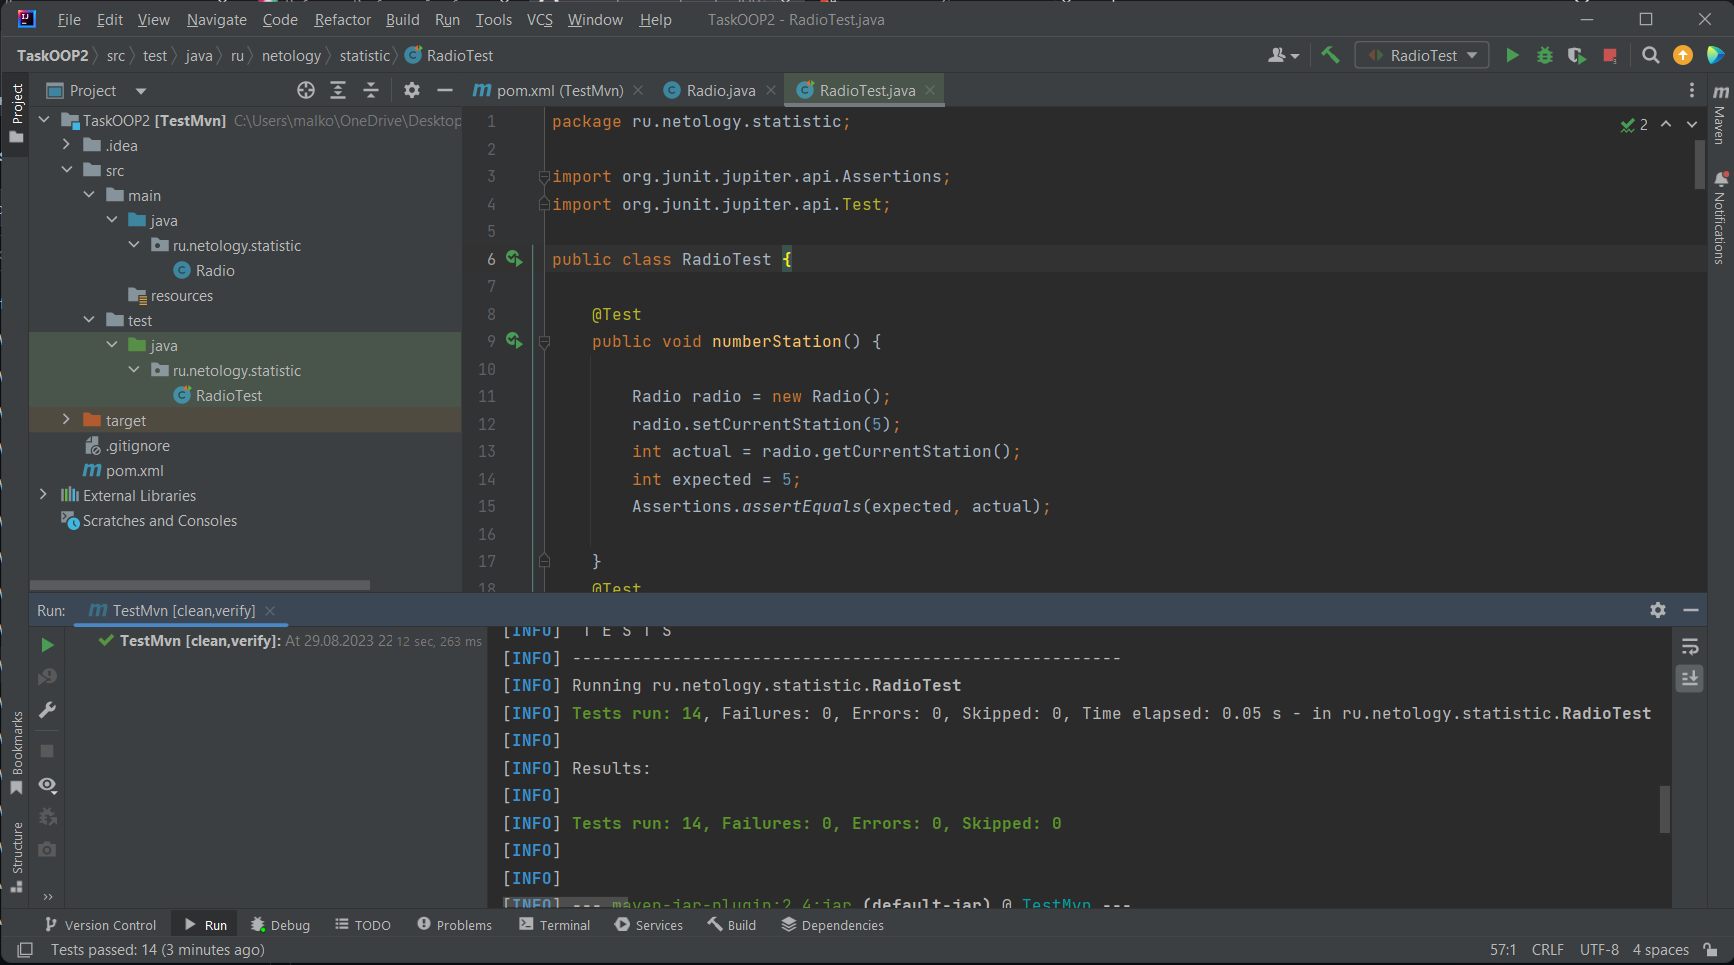
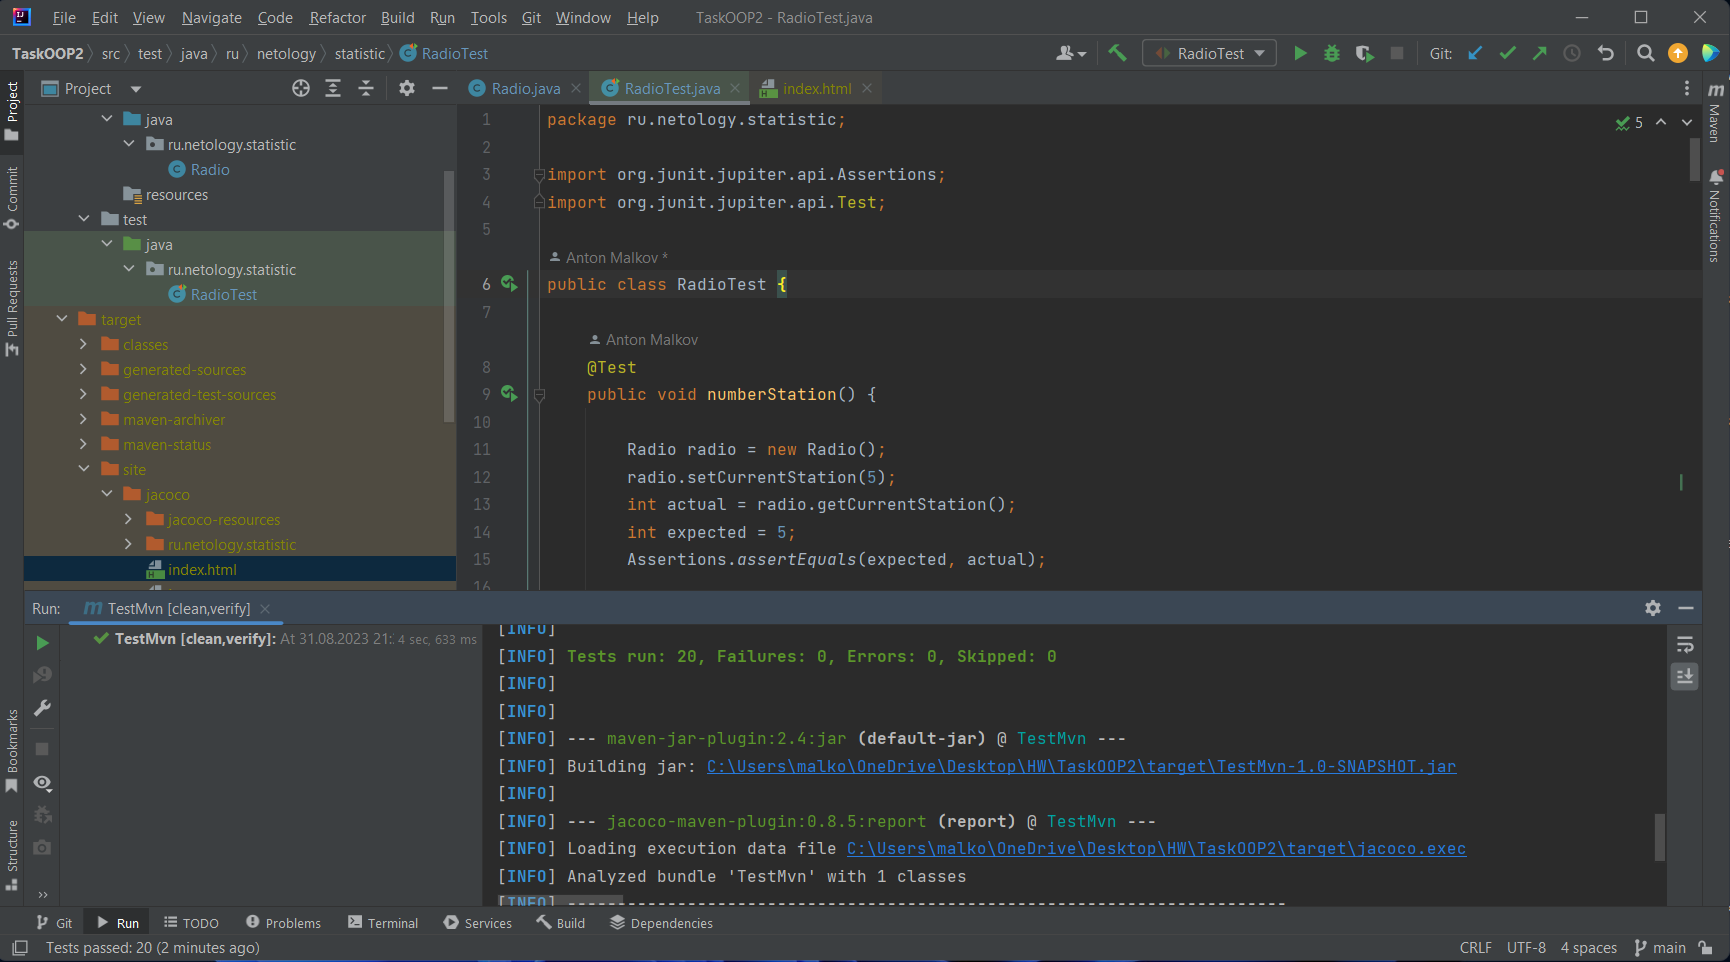
changing the code

diff --git a/src/test/java/ru/netology/statistic/RadioTest.java b/src/test/java/ru/netology/statistic/RadioTest.java
@@ -158,6 +158,15 @@ public class RadioTest {
         Assertions.assertEquals(expected, actual);
     }
     @Test
+    public void redusehundredVolume() {
+        Radio radio = new Radio();
+        radio.setCurrentVolume(100);
+        radio.reduceVolume();
+        int actual = radio.getCurrentVolume();
+        int expected = 99;
+        Assertions.assertEquals(expected, actual);
+    }
+    @Test
     public void reduseMaxInOneVolume() {
         Radio radio = new Radio();
         radio.setCurrentVolume(100);

diff --git a/src/main/java/ru/netology/statistic/Radio.java b/src/main/java/ru/netology/statistic/Radio.java
@@ -29,11 +29,10 @@ public class Radio {
     }
 
     public void reduceVolume() {
-        if (currentVolume <= 100) {
+        if (currentVolume > 0) {
             currentVolume = currentVolume - 1;
-        }
-        if (currentVolume < 0) {
-            currentVolume = 0;
+        } else {
+            return;
         }
 
 
